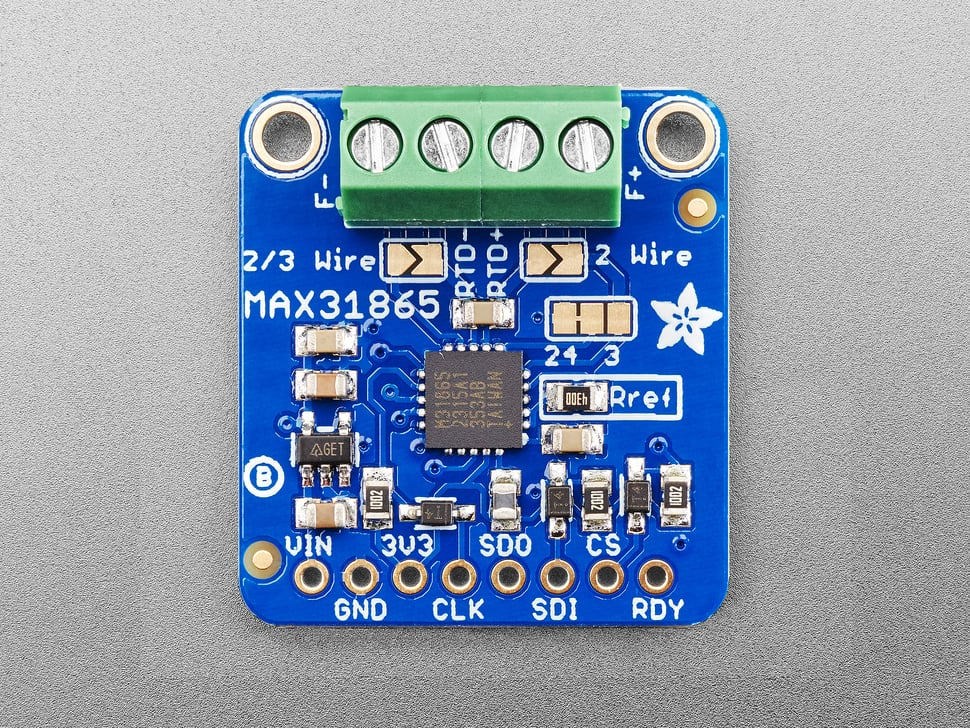
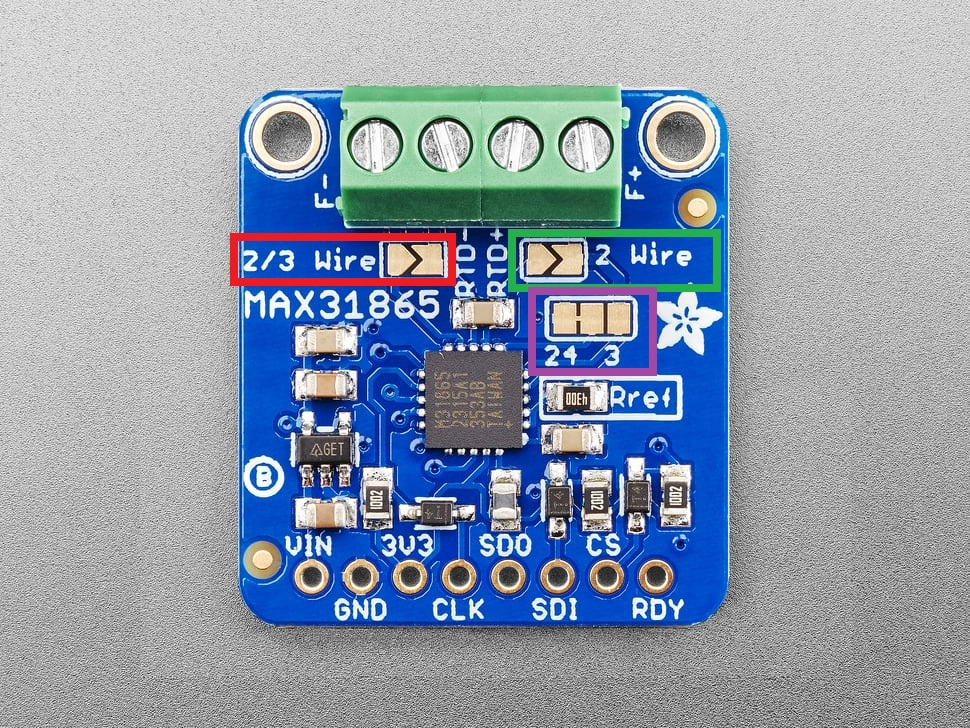
Testing bugs

Changed region(s): [[0.5258, 0.3022, 0.7423, 0.5137], [0.2165, 0.3022, 0.4948, 0.3929]]

diff --git a/public/posts/temp_sensor/index.html b/public/posts/temp_sensor/index.html
@@ -23,7 +23,7 @@
 
 
 
-<link rel="stylesheet" href="/intel_arduino_blog/assets/combined.min.d4a94df2de603f2d83f38bb9bc29139ffe7ac2ca006956de2d78e7d883fb80db.css" media="all">
+<link rel="stylesheet" href="/intel_arduino_blog/assets/combined.min.1ddff9327769427ec3c5a9b8c4457be6d1be407395881ad400dd674e4dc37aaf.css" media="all">
 
 
 
@@ -122,7 +122,8 @@
     <p>// Insert Top level image</p>
 <h1 id="what-is-an-rtd">What is an RTD</h1>
 <p>A <em>Resistance Temperature Dectector</em> (RTD) is a simple sensor whose resistance changes as its temperature changes. The RTD we will be using today is the <a href="https://www.adafruit.com/product/3290">PT100</a>, from a well respected hardware company, <em>Adafruit</em>. The <strong>PT</strong> indicates that the &ldquo;resistor&rdquo; inside is just a small strip of platinum, and the <strong>100</strong> indicates at 0 degrees celsius the platinum will have a resistance of 100 ohms. Platinum is used in the resistor because it is stable, provides repeatable results, and boasts a broad temperature range.</p>
-<p>The method to calculate the resistance of the platinum is slightly more complicated than applying a voltage, measuring the corresponding current, then using Ohm&rsquo;s Law <code>R = V/I</code> to solve for <code>R</code>. Instead, a second reference resistor (RREF) is placed in series with the RTD. A voltage is applied to the pair, and the voltage of each individual resistor is measured. The ratio of these two voltages, which also respresent the ratio of resistance since the current is constant, can be multiplied by the known RREF to obtain the RTD&rsquo;s resistance. This process allows for accurate readings at low resistances, and small changes in resistance, improving the accuracy significantly. To accomplish this, a separate chip is necessary: Adafruit&rsquo;s <a href="https://www.adafruit.com/product/3328">MAX31865</a>. This board includes the required chip to do this measurement process, and the required peripherals to talk to the Arduino in a digitally. To find out more about the process consult page 10 of the <a href="https://learn.adafruit.com/adafruit-max31865-rtd-pt100-amplifier/downloads">datasheet</a>, which also contains all the information about the board.</p>
+<p>// insert RTD picture</p>
+<p>The method to calculate the resistance of the platinum is slightly more complicated than applying a voltage, measuring the corresponding current, then using Ohm&rsquo;s Law <code>R = V/I</code> to solve for <code>R</code>. Instead, a second reference resistor (RREF) is placed in series with the RTD. A voltage is applied to the pair, and the voltage of each individual resistor is measured. The ratio of these two voltages, which also respresents the ratio of resistance due to the constant current, can be multiplied by the known RREF to obtain the RTD&rsquo;s resistance. This process allows for accurate readings at low resistances, and recognizes small changes in resistance, improving the accuracy significantly. To accomplish this, a separate chip is necessary: Adafruit&rsquo;s <a href="https://www.adafruit.com/product/3328">MAX31865 Amplifier</a>. This amplifier includes the required chip to do the above measurement process, and the peripherals to communicate its reading to the Arduino using Serial Peripheral Interface <a href="https://learn.sparkfun.com/tutorials/serial-peripheral-interface-spi/all">(SPI)</a>. SPI is a standardized way to use the <a href="https://learn.sparkfun.com/tutorials/serial-communication/all">Serial</a> communication method, which makes talking to different external chips simple and customary. To find out more about the amplifier consult the <a href="https://learn.adafruit.com/adafruit-max31865-rtd-pt100-amplifier/downloads">datasheet</a>.</p>
 <h1 id="pinout">Pinout</h1>
 <p>
 
@@ -143,23 +144,24 @@
 
     
 </figure></p>
-<p>The black box in the middle is the actual chip. The RREF is also labeled clearly.</p>
+<p>The black box in the middle is the actual chip (also known as an integrated circuit). All the other parts are used to support the chip&rsquo;s functions, such as the reference resistor, labeled <em>RREF</em>.</p>
 <h3 id="to-connect-to-an-arduino-we-need-to-use-the-following-pins">To connect to an Arduino we need to use the following pins:</h3>
 <h4 id="power-pins">Power Pins</h4>
 <ul>
-<li>VIN: (<strong>V</strong>oltage <strong>In</strong>), the board needs 3V DC to operate, but an onboard voltage regulator allows for an Arduino&rsquo;s 5V power pin to connect</li>
-<li>GND: The common ground pin</li>
+<li>VIN: (<strong>V</strong>oltage <strong>In</strong>), the board needs 3V DC to operate, but an onboard voltage regulator allows for an Arduino&rsquo;s 5V power pin to connect seamlessly</li>
+<li>GND: The ground pin, a feature for every circuit</li>
 </ul>
 <h4 id="spi-logic-pins">SPI Logic Pins</h4>
 <ul>
-<li>CLK: The <em>clock</em> pin for SPI</li>
-<li>SDO: <strong>S</strong>erial <strong>D</strong>ata <strong>O</strong>ut, also known as Microcontroller In Sensor Out, used for data sent from the <em>MAX</em> to the <em>Arduino</em></li>
-<li>SDI: <strong>S</strong>erial <strong>D</strong>ata <strong>I</strong>n, also known as Microcontroller Out Sensor In, used for data sent from the <em>Arduino</em> to the <em>MAX</em></li>
-<li>CS: <strong>C</strong>hip <strong>S</strong>elect, when low the MAX chip is active</li>
+<li>CLK: The <strong>Cl</strong>oc<strong>k</strong> pin, vital to any communication protocol</li>
+<li>SDO: <strong>S</strong>erial <strong>D</strong>ata <strong>O</strong>ut, also known as Microcontroller In Sensor Out, used for data sent from the <em>amplifier</em> to the <em>Arduino</em></li>
+<li>SDI: <strong>S</strong>erial <strong>D</strong>ata <strong>I</strong>n, also known as Microcontroller Out Sensor In, used for data sent from the <em>Arduino</em> to the <em>amplifier</em></li>
+<li>CS: <strong>C</strong>hip <strong>S</strong>elect, when low the amplifier is active</li>
 </ul>
-<p>Connecting multiple MAX31865&rsquo;s or other SPI devices? Have them share a CLK, SDO, and SDI pins but keep seperate CS pins and only activate one chip at a time.</p>
-<h1 id="sensor-terminal-blocks-and-configuration-jumpers">Sensor Terminal Blocks and Configuration Jumpers</h1>
-<p>
+<p>These 4 pins are the heart of the SPI protocol and are all we need, besides power and ground to communicate between the amplifier and Arduino.</p>
+<h1 id="configuring-the-board">Configuring the board</h1>
+<p>By default the board is set up for the 4 wire sensor. Since our PT100 only has 3 wires, a little soldering is necessary to configure thecircuits correctly. For those unfamiliar with soldering, its purpose is to make electrical connections that are a little more permanat than twisting two wires together. I&rsquo;d recomend looking at a tutorial and practicing on some spare parts before attempting the real board. Here&rsquo;s a guide that might <a href="https://learn.adafruit.com/adafruit-guide-excellent-soldering">help</a>
+
 
 
 
@@ -173,53 +175,26 @@
 <figure class="">
 
     <div>
-        <img loading="lazy" alt="terminals" src=" /intel_arduino_blog/images/board_terminals.jpg">
+        <img loading="lazy" alt="jumpers" src=" /intel_arduino_blog/images/top_down_board.jpg">
     </div>
 
     
 </figure></p>
-<p>There are <em>four</em> contacts that connect the RTD sensors to the board. All contacts don&rsquo;t need to be used since the board supports 2, 3, or 4 wire sensors. Additionally, the 3 and 4 wire sensor can be used as a 3 or 2 wire sensor by not connecting the extra wires, only sacrificing a little accurary.</p>
-<p>
-
-
-
-
-
-
-
-
-
-
-<figure class="">
-
-    <div>
-        <img loading="lazy" alt="jumpers" src=" /intel_arduino_blog/images/board_jumpers.jpg">
-    </div>
-
-    
-</figure>
-By default the board is set up for the 4 wire sensor, but the 2 and 3 wire set up only requires a little soldering.</p>
-<p><strong>3-wire</strong></p>
+<p>There are three jump pads that could be configured, we need to do the following:</p>
 <ul>
 <li>Solder closed the jumper labeled <strong>2/3 Wire</strong></li>
 <li>Leave jumper labeled <strong>2 Wire</strong> untouched</li>
-<li>Cut the small tab in between the <em>2</em> and <em>4</em> on the last jumper, then solder the rigthmost and middle pads closed.</li>
+<li>Cut the small tab just to the right of the <em>4</em> on the pad labeled &ldquo;24 3&rdquo;, then solder the rigthmost and middle pads closed.</li>
 </ul>
 <p>Tips for 3 pad jumper:</p>
 <ul>
-<li>Cutting the tab can be difficult and does scratch the surrounding area slightly so just be mindful</li>
+<li>Cutting the tab can be difficult and does scratch the surrounding area slightly, but the circuit should still work fine</li>
 <li>Use a small amount of solder when connecting the middle and right pads and have a solder sucker ready in case the left pad accidentely gets connected</li>
 <li>My first time trying to get the solder to lay correctly took quite a bit of trial and error, but just be careful to not overheat the chip</li>
 </ul>
-<p><strong>2-wire</strong></p>
-<ul>
-<li>Solder closed the jumper labeled <strong>2/3 Wire</strong></li>
-<li>solder closed the jumper labeled <strong>2 Wire</strong></li>
-<li>Leave the 3 pad jumper untouched</li>
-</ul>
 <h1 id="board-assembly">Board Assembly</h1>
 <p><strong>Let&rsquo;s add the parts to the board</strong>
-The header strip is easiest to connect using a breadboard. Be sure to insert the <strong>long pins down</strong>.</p>
+The header strip is easiest to solder in using a breadboard. Be sure to insert the <strong>long pins down</strong>.</p>
 <p>
 
 
@@ -239,10 +214,7 @@ The header strip is easiest to connect using a breadboard. Be sure to insert the
 
     
 </figure></p>
-<p>Solder all pins for the most consistent electrical contact. If you need help soldering, Adafruit published an excellent guide
-<a href="https://learn.adafruit.com/adafruit-guide-excellent-soldering">here.</a></p>
-<p>In the included picture, the two 3.5mm terminal blocks used to connect the sensor to the board came soldered on. If your board looks like this
-
+<p>
 
 
 

diff --git a/public/404.html b/public/404.html
@@ -23,7 +23,7 @@
 
 
 
-<link rel="stylesheet" href="/intel_arduino_blog/assets/combined.min.d4a94df2de603f2d83f38bb9bc29139ffe7ac2ca006956de2d78e7d883fb80db.css" media="all">
+<link rel="stylesheet" href="/intel_arduino_blog/assets/combined.min.1ddff9327769427ec3c5a9b8c4457be6d1be407395881ad400dd674e4dc37aaf.css" media="all">
 
 
 

diff --git a/public/categories/index.html b/public/categories/index.html
@@ -23,7 +23,7 @@
 
 
 
-<link rel="stylesheet" href="/intel_arduino_blog/assets/combined.min.d4a94df2de603f2d83f38bb9bc29139ffe7ac2ca006956de2d78e7d883fb80db.css" media="all">
+<link rel="stylesheet" href="/intel_arduino_blog/assets/combined.min.1ddff9327769427ec3c5a9b8c4457be6d1be407395881ad400dd674e4dc37aaf.css" media="all">
 
 
 

diff --git a/public/index.html b/public/index.html
@@ -24,7 +24,7 @@
 
 
 
-<link rel="stylesheet" href="/intel_arduino_blog/assets/combined.min.d4a94df2de603f2d83f38bb9bc29139ffe7ac2ca006956de2d78e7d883fb80db.css" media="all">
+<link rel="stylesheet" href="/intel_arduino_blog/assets/combined.min.1ddff9327769427ec3c5a9b8c4457be6d1be407395881ad400dd674e4dc37aaf.css" media="all">
 
 
 

diff --git a/public/posts/index.html b/public/posts/index.html
@@ -23,7 +23,7 @@
 
 
 
-<link rel="stylesheet" href="/intel_arduino_blog/assets/combined.min.d4a94df2de603f2d83f38bb9bc29139ffe7ac2ca006956de2d78e7d883fb80db.css" media="all">
+<link rel="stylesheet" href="/intel_arduino_blog/assets/combined.min.1ddff9327769427ec3c5a9b8c4457be6d1be407395881ad400dd674e4dc37aaf.css" media="all">
 
 
 

diff --git a/public/posts/liquid_level/index.html b/public/posts/liquid_level/index.html
@@ -23,7 +23,7 @@
 
 
 
-<link rel="stylesheet" href="/intel_arduino_blog/assets/combined.min.d4a94df2de603f2d83f38bb9bc29139ffe7ac2ca006956de2d78e7d883fb80db.css" media="all">
+<link rel="stylesheet" href="/intel_arduino_blog/assets/combined.min.1ddff9327769427ec3c5a9b8c4457be6d1be407395881ad400dd674e4dc37aaf.css" media="all">
 
 
 

diff --git a/public/tags/arduino/index.html b/public/tags/arduino/index.html
@@ -23,7 +23,7 @@
 
 
 
-<link rel="stylesheet" href="/intel_arduino_blog/assets/combined.min.d4a94df2de603f2d83f38bb9bc29139ffe7ac2ca006956de2d78e7d883fb80db.css" media="all">
+<link rel="stylesheet" href="/intel_arduino_blog/assets/combined.min.1ddff9327769427ec3c5a9b8c4457be6d1be407395881ad400dd674e4dc37aaf.css" media="all">
 
 
 

diff --git a/public/tags/c++/index.html b/public/tags/c++/index.html
@@ -23,7 +23,7 @@
 
 
 
-<link rel="stylesheet" href="/intel_arduino_blog/assets/combined.min.d4a94df2de603f2d83f38bb9bc29139ffe7ac2ca006956de2d78e7d883fb80db.css" media="all">
+<link rel="stylesheet" href="/intel_arduino_blog/assets/combined.min.1ddff9327769427ec3c5a9b8c4457be6d1be407395881ad400dd674e4dc37aaf.css" media="all">
 
 
 

diff --git a/public/tags/index.html b/public/tags/index.html
@@ -23,7 +23,7 @@
 
 
 
-<link rel="stylesheet" href="/intel_arduino_blog/assets/combined.min.d4a94df2de603f2d83f38bb9bc29139ffe7ac2ca006956de2d78e7d883fb80db.css" media="all">
+<link rel="stylesheet" href="/intel_arduino_blog/assets/combined.min.1ddff9327769427ec3c5a9b8c4457be6d1be407395881ad400dd674e4dc37aaf.css" media="all">
 
 
 

diff --git a/content/posts/temp_sensor.md b/content/posts/temp_sensor.md
@@ -8,71 +8,50 @@ author = "Reuben De Souza"
 // Insert Top level image
 
 # What is an RTD
-
 A _Resistance Temperature Dectector_ (RTD) is a simple sensor whose resistance changes as its temperature changes. The RTD we will be using today is the [PT100](https://www.adafruit.com/product/3290), from a well respected hardware company, _Adafruit_. The **PT** indicates that the "resistor" inside is just a small strip of platinum, and the **100** indicates at 0 degrees celsius the platinum will have a resistance of 100 ohms. Platinum is used in the resistor because it is stable, provides repeatable results, and boasts a broad temperature range.
 
-The method to calculate the resistance of the platinum is slightly more complicated than applying a voltage, measuring the corresponding current, then using Ohm's Law `R = V/I` to solve for `R`. Instead, a second reference resistor (RREF) is placed in series with the RTD. A voltage is applied to the pair, and the voltage of each individual resistor is measured. The ratio of these two voltages, which also respresent the ratio of resistance since the current is constant, can be multiplied by the known RREF to obtain the RTD's resistance. This process allows for accurate readings at low resistances, and small changes in resistance, improving the accuracy significantly. To accomplish this, a separate chip is necessary: Adafruit's [MAX31865](https://www.adafruit.com/product/3328). This board includes the required chip to do this measurement process, and the required peripherals to talk to the Arduino in a digitally. To find out more about the process consult page 10 of the [datasheet](https://learn.adafruit.com/adafruit-max31865-rtd-pt100-amplifier/downloads), which also contains all the information about the board.
+// insert RTD picture
+
+The method to calculate the resistance of the platinum is slightly more complicated than applying a voltage, measuring the corresponding current, then using Ohm's Law `R = V/I` to solve for `R`. Instead, a second reference resistor (RREF) is placed in series with the RTD. A voltage is applied to the pair, and the voltage of each individual resistor is measured. The ratio of these two voltages, which also respresents the ratio of resistance due to the constant current, can be multiplied by the known RREF to obtain the RTD's resistance. This process allows for accurate readings at low resistances, and recognizes small changes in resistance, improving the accuracy significantly. To accomplish this, a separate chip is necessary: Adafruit's [MAX31865 Amplifier](https://www.adafruit.com/product/3328). This amplifier includes the required chip to do the above measurement process, and the peripherals to communicate its reading to the Arduino using Serial Peripheral Interface [(SPI)](https://learn.sparkfun.com/tutorials/serial-peripheral-interface-spi/all). SPI is a standardized way to use the [Serial](https://learn.sparkfun.com/tutorials/serial-communication/all) communication method, which makes talking to different external chips simple and customary. To find out more about the amplifier consult the [datasheet](https://learn.adafruit.com/adafruit-max31865-rtd-pt100-amplifier/downloads).
 
 # Pinout
-
 ![pinout](/intel_arduino_blog/images/top_down_board.jpg)
 
-The black box in the middle is the actual chip. The RREF is also labeled clearly.
+The black box in the middle is the actual chip (also known as an integrated circuit). All the other parts are used to support the chip's functions, such as the reference resistor, labeled _RREF_.
 
 ### To connect to an Arduino we need to use the following pins:
-
 #### Power Pins
-
--   VIN: (**V**oltage **In**), the board needs 3V DC to operate, but an onboard voltage regulator allows for an Arduino's 5V power pin to connect
--   GND: The common ground pin
+-   VIN: (**V**oltage **In**), the board needs 3V DC to operate, but an onboard voltage regulator allows for an Arduino's 5V power pin to connect seamlessly 
+-   GND: The ground pin, a feature for every circuit
 
 #### SPI Logic Pins
+-   CLK: The **Cl**oc**k** pin, vital to any communication protocol
+-   SDO: **S**erial **D**ata **O**ut, also known as Microcontroller In Sensor Out, used for data sent from the _amplifier_ to the _Arduino_
+-   SDI: **S**erial **D**ata **I**n, also known as Microcontroller Out Sensor In, used for data sent from the _Arduino_ to the _amplifier_
+-   CS: **C**hip **S**elect, when low the amplifier is active 
 
--   CLK: The _clock_ pin for SPI
--   SDO: **S**erial **D**ata **O**ut, also known as Microcontroller In Sensor Out, used for data sent from the _MAX_ to the _Arduino_
--   SDI: **S**erial **D**ata **I**n, also known as Microcontroller Out Sensor In, used for data sent from the _Arduino_ to the _MAX_
--   CS: **C**hip **S**elect, when low the MAX chip is active
+These 4 pins are the heart of the SPI protocol and are all we need, besides power and ground to communicate between the amplifier and Arduino. 
 
-Connecting multiple MAX31865's or other SPI devices? Have them share a CLK, SDO, and SDI pins but keep seperate CS pins and only activate one chip at a time.
+# Configuring the board
+By default the board is set up for the 4 wire sensor. Since our PT100 only has 3 wires, a little soldering is necessary to configure thecircuits correctly. For those unfamiliar with soldering, its purpose is to make electrical connections that are a little more permanat than twisting two wires together. I'd recomend looking at a tutorial and practicing on some spare parts before attempting the real board. Here's a guide that might [help](https://learn.adafruit.com/adafruit-guide-excellent-soldering)
+![jumpers](/intel_arduino_blog/images/top_down_board.jpg)
 
-# Sensor Terminal Blocks and Configuration Jumpers
-
-![terminals](/intel_arduino_blog/images/board_terminals.jpg)
-
-There are _four_ contacts that connect the RTD sensors to the board. All contacts don't need to be used since the board supports 2, 3, or 4 wire sensors. Additionally, the 3 and 4 wire sensor can be used as a 3 or 2 wire sensor by not connecting the extra wires, only sacrificing a little accurary.
-
-![jumpers](/intel_arduino_blog/images/board_jumpers.jpg)
-By default the board is set up for the 4 wire sensor, but the 2 and 3 wire set up only requires a little soldering.
-
-**3-wire**
-
--   Solder closed the jumper labeled **2/3 Wire**
--   Leave jumper labeled **2 Wire** untouched
--   Cut the small tab in between the _2_ and _4_ on the last jumper, then solder the rigthmost and middle pads closed.
+There are three jump pads that could be configured, we need to do the following:
+- Solder closed the jumper labeled **2/3 Wire**
+- Leave jumper labeled **2 Wire** untouched
+- Cut the small tab just to the right of the _4_ on the pad labeled "24 3", then solder the rigthmost and middle pads closed.
 
 Tips for 3 pad jumper:
-
--   Cutting the tab can be difficult and does scratch the surrounding area slightly so just be mindful
+-   Cutting the tab can be difficult and does scratch the surrounding area slightly, but the circuit should still work fine
 -   Use a small amount of solder when connecting the middle and right pads and have a solder sucker ready in case the left pad accidentely gets connected
 -   My first time trying to get the solder to lay correctly took quite a bit of trial and error, but just be careful to not overheat the chip
 
-**2-wire**
-
--   Solder closed the jumper labeled **2/3 Wire**
--   solder closed the jumper labeled **2 Wire**
--   Leave the 3 pad jumper untouched
-
 # Board Assembly
-
 **Let's add the parts to the board**
-The header strip is easiest to connect using a breadboard. Be sure to insert the **long pins down**.
+The header strip is easiest to solder in using a breadboard. Be sure to insert the **long pins down**.
 
 ![connector pins](/intel_arduino_blog/images/solder_pins.jpg)
 
-Solder all pins for the most consistent electrical contact. If you need help soldering, Adafruit published an excellent guide
-[here.](https://learn.adafruit.com/adafruit-guide-excellent-soldering)
-
-In the included picture, the two 3.5mm terminal blocks used to connect the sensor to the board came soldered on. If your board looks like this
 ![complete](/intel_arduino_blog/images/complete_v2.jpg)
 
 Note, I have the 3 wire version of the PT100 so my soldering is done accordingly.
